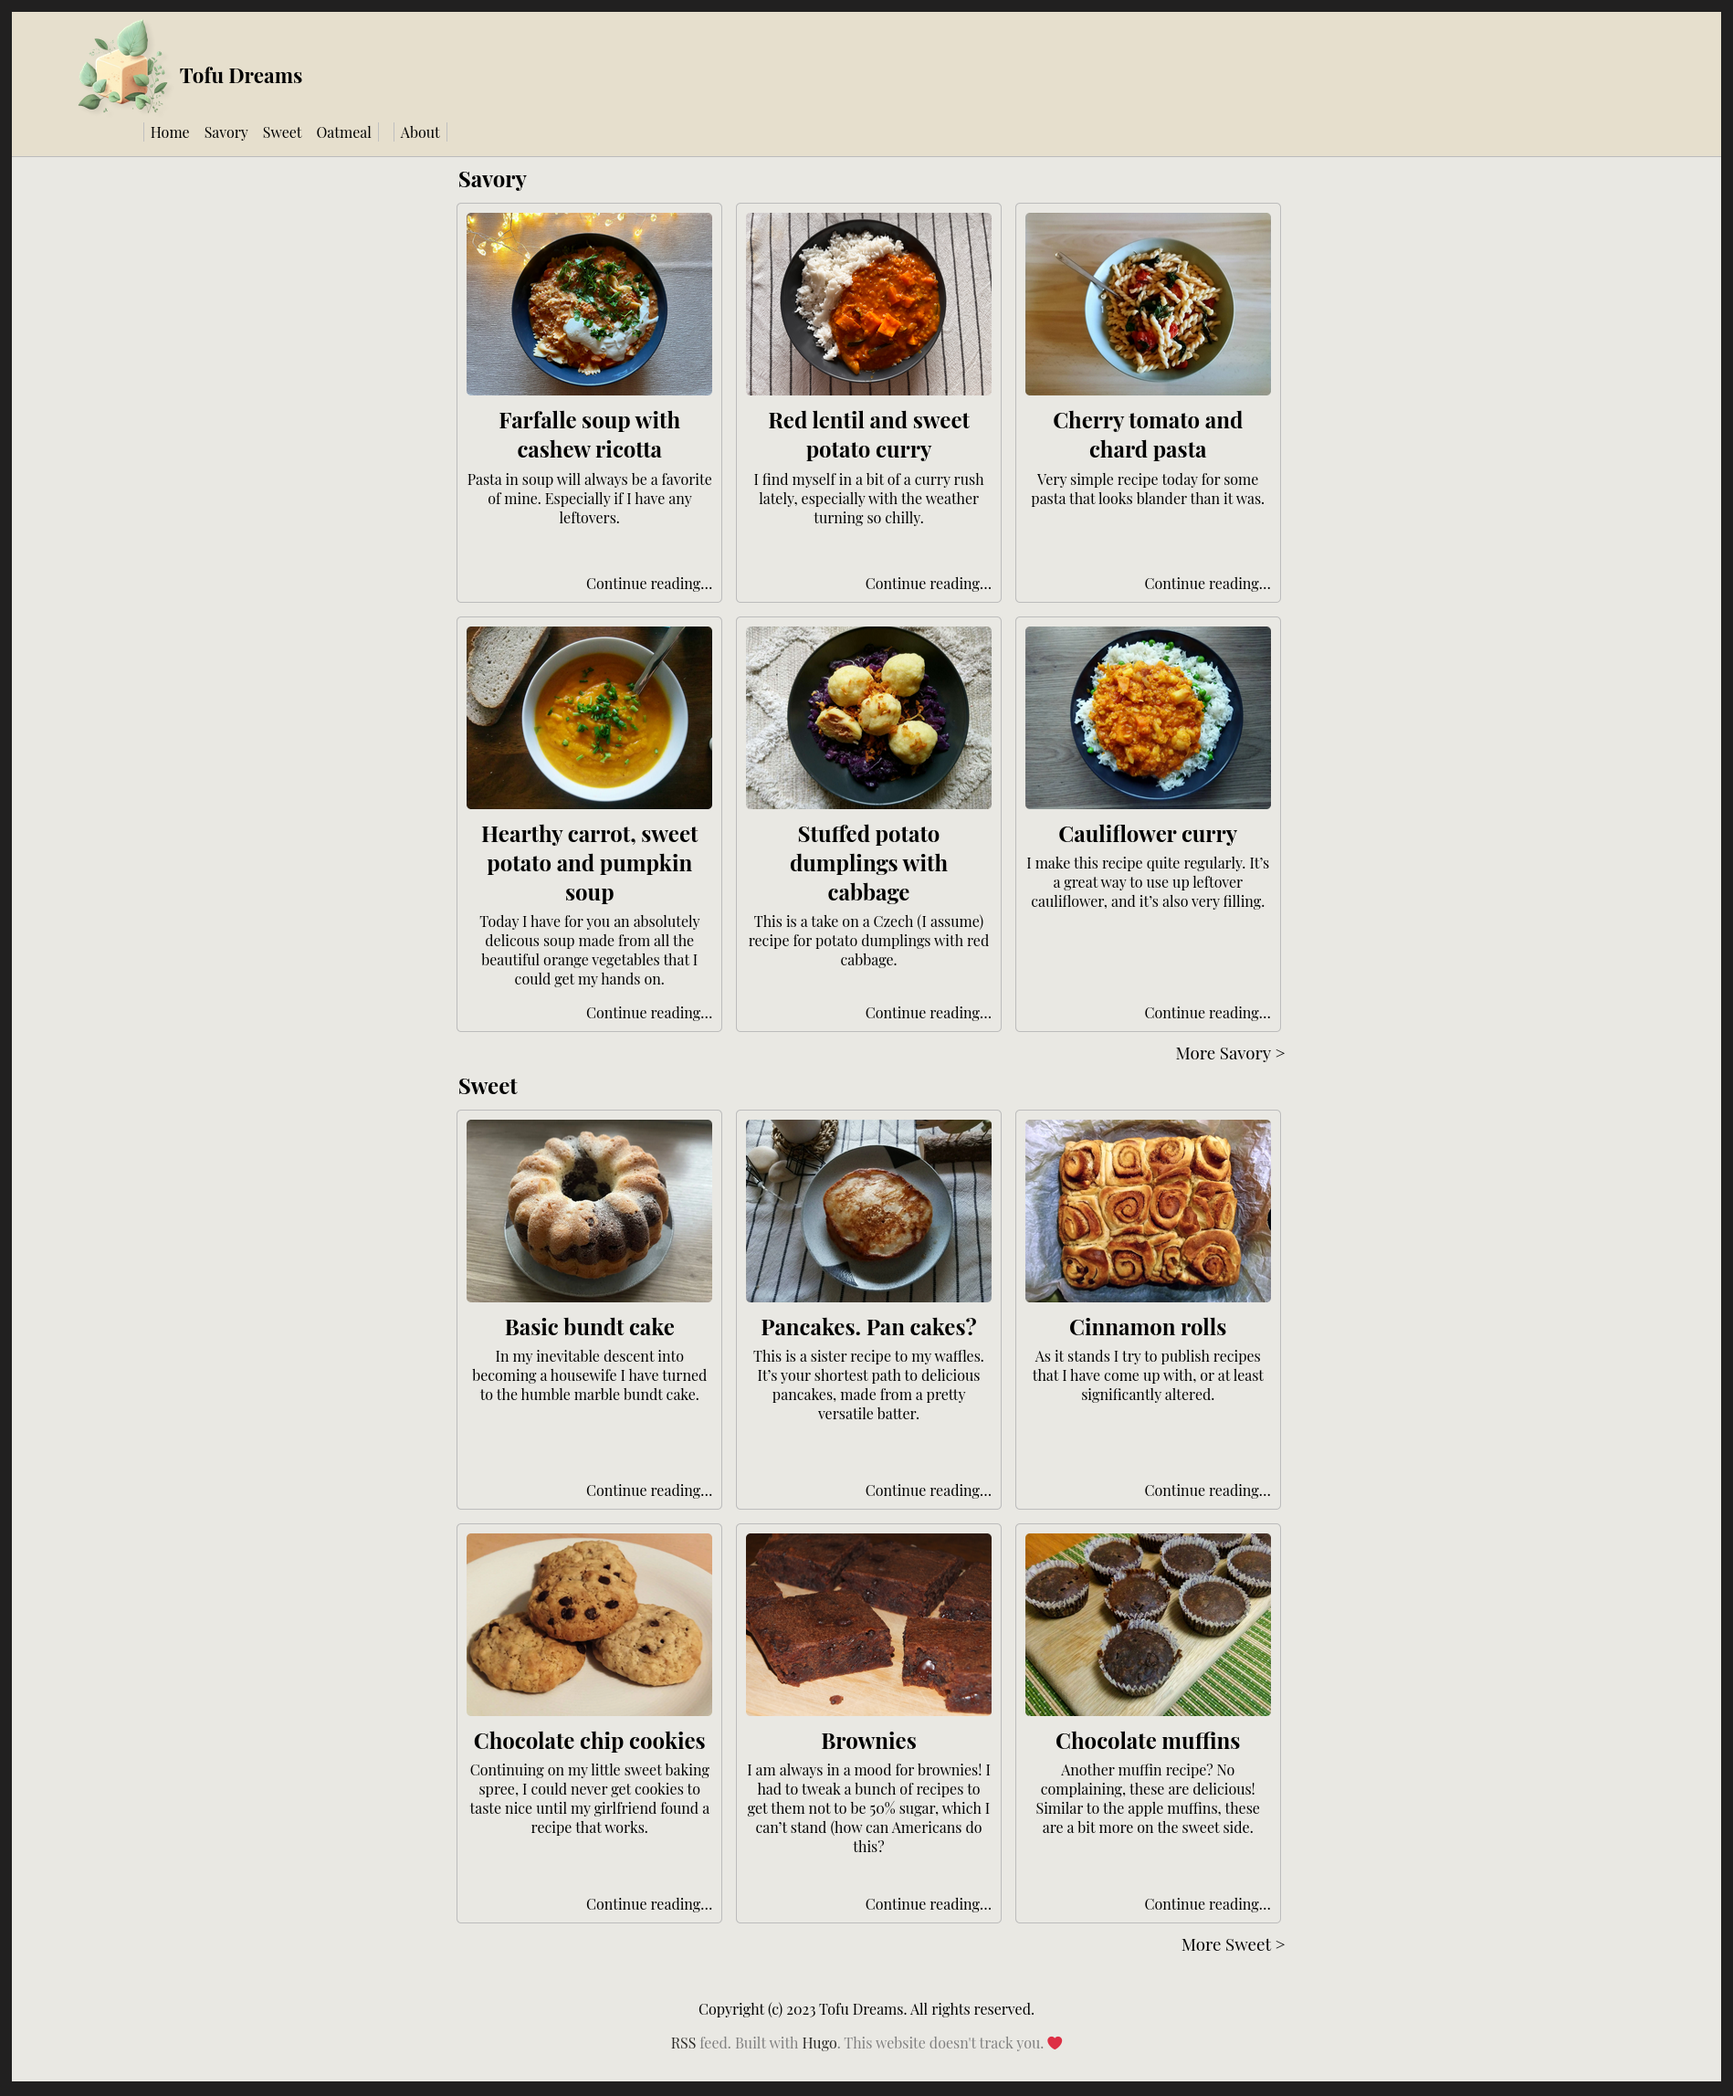
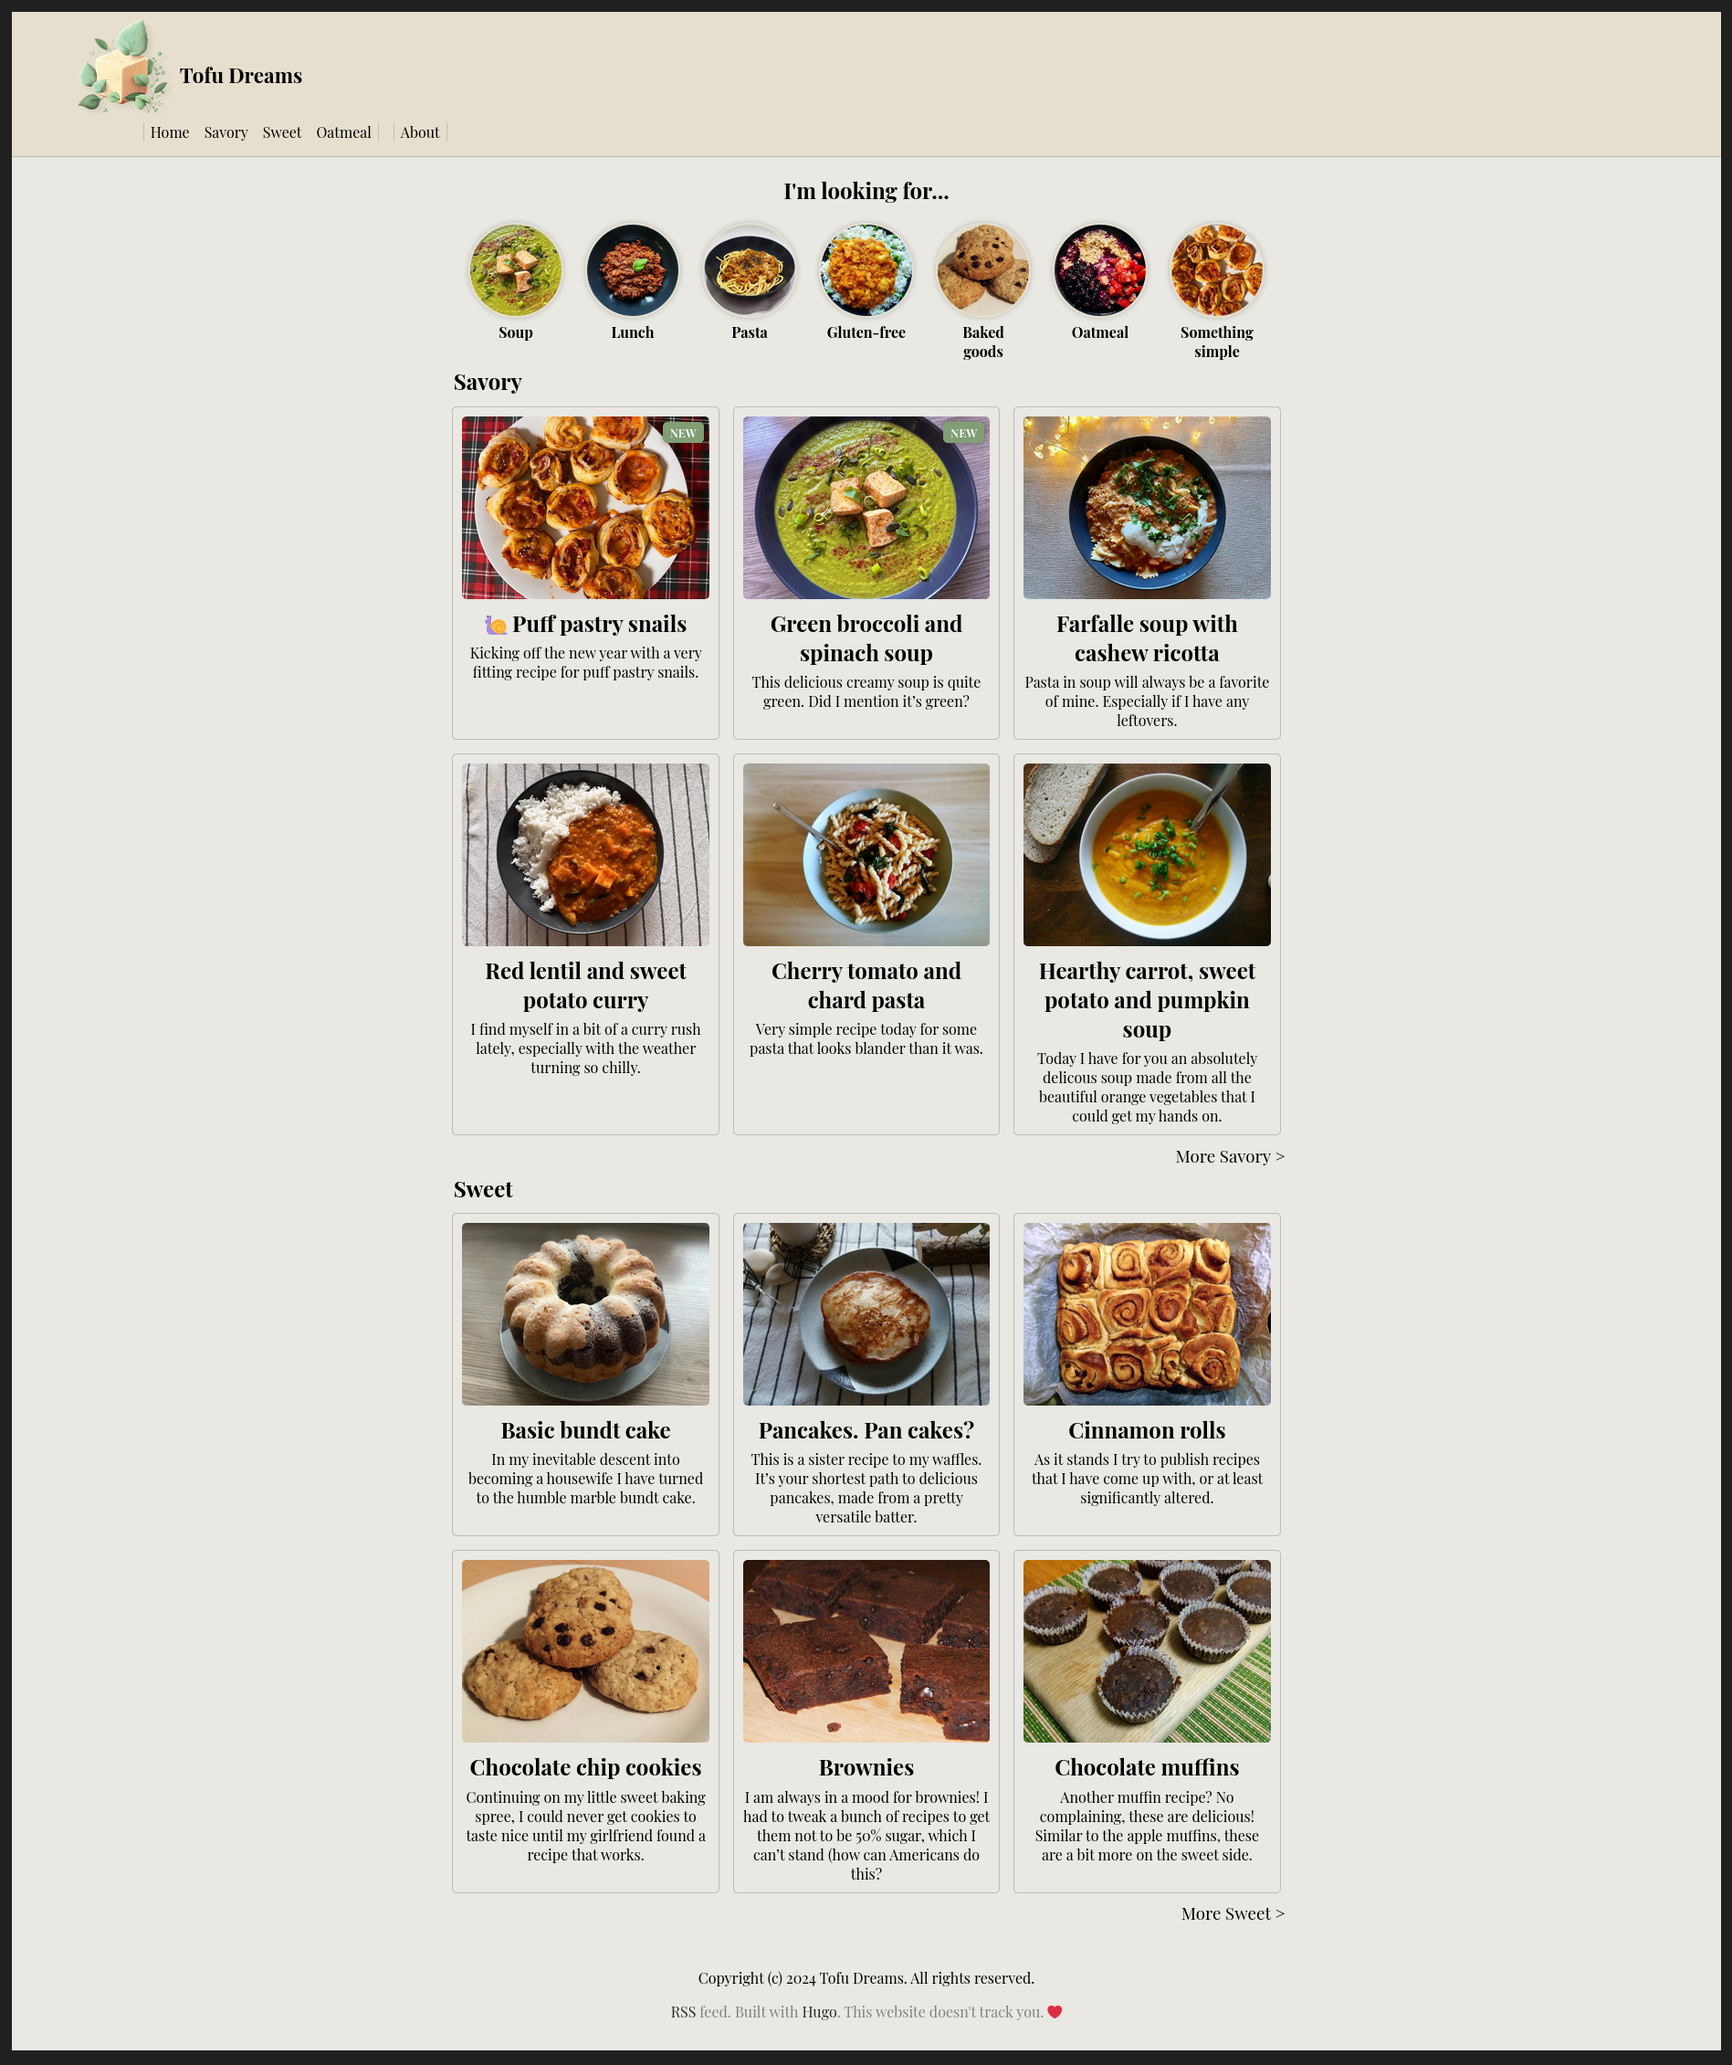
title changes

diff --git a/themes/bean/layouts/_default/single.html b/themes/bean/layouts/_default/single.html
@@ -53,7 +53,7 @@
         <img src="/me.jpg" alt="me">
         <p>
             Hi, I'm Daniel and this is my little vegan cooking blog.
-            I love comfort food and baking. I hope you find some of my recipes interesting and decide to make them yourself.
+            I love comfort food and baking. I hope you find some of my recipes interesting and decide to try them yourself.
         </p>
         <p>
             This site is intentionally minimal and doesn't need javascript to run. I don't want <i>your</i> <a href="/posts/sweet/cookies/">cookies</a>!
@@ -85,9 +85,9 @@
                         <span>
                         {{ if .Truncated }}
                             <!-- This <div> includes a read more link, but only if the summary is truncated... -->
-                        <div class="bottom-link">
+                        <!--<div class="bottom-link">
                             <a href="{{ .RelPermalink }}">Continue reading…</a>
-                        </div>
+                        </div>-->
                         {{ end }}
                         </span>
                 </div>

diff --git a/themes/bean/layouts/_default/taxonomy.html b/themes/bean/layouts/_default/taxonomy.html
@@ -34,7 +34,11 @@
 
     <div class="category_container">
         <div class="container">
-            <h1>{{ .Title }}</h1>
+            {{ $first := substr .Title 0 1 }}
+            {{ $rest := substr .Title 1 }}
+            {{ $first = upper $first }}
+            {{ $title := print $first $rest }}
+            <h1>{{ $title }}</h1>
             <div class="category">
                 {{ range .Paginator.Pages.ByDate.Reverse }}
                 <span class="article" onclick="location.href='{{ .RelPermalink }}';">
@@ -57,9 +61,9 @@
                         <span>
                         {{ if .Truncated }}
                             <!-- This <div> includes a read more link, but only if the summary is truncated... -->
-                        <div class="bottom-link">
+                        <!--<div class="bottom-link">
                             <a href="{{ .RelPermalink }}">Continue reading…</a>
-                        </div>
+                        </div>-->
                         {{ end }}
                         </span>
                     </span>

diff --git a/themes/bean/layouts/partials/header.html b/themes/bean/layouts/partials/header.html
@@ -7,7 +7,11 @@
                 {{ if eq .Title .Site.Title }}
                     <h3>{{.Title}}</h3></a>
                 {{ else }}
-                    <h3>{{.Title}} | {{ .Site.Title }}</h3></a>
+                    {{ $first := substr .Title 0 1 }}
+                    {{ $rest := substr .Title 1 }}
+                    {{ $first = upper $first }}
+                    {{ $title := print $first $rest }}
+                    <h3>{{ $title }} | {{ .Site.Title }}</h3></a>
                 {{ end }}
         </span>
         <span class="nav">

diff --git a/themes/bean/layouts/index.html b/themes/bean/layouts/index.html
@@ -32,9 +32,9 @@
                     <span>
                     {{ if .Truncated }}
                     <!-- This <div> includes a read more link, but only if the summary is truncated... -->
-                    <div class="bottom-link">
+                    <!--<div class="bottom-link">
                         <a href="{{ .RelPermalink }}">Continue reading…</a>
-                    </div>
+                    </div>-->
                     {{ end }}
                     </span>
                 </span>

diff --git a/themes/bean/layouts/partials/head.html b/themes/bean/layouts/partials/head.html
@@ -4,7 +4,10 @@
     {{ $title := print .Site.Title " | " .Title }}
     {{ if .IsHome }}{{ $title = .Site.Title }}
     {{ else }}
-    {{ $title = print .Title " | " .Site.Title }}
+        {{ $first := substr .Title 0 1 }}
+        {{ $rest := substr .Title 1 }}
+        {{ $first = upper $first }}
+        {{ $title = print $first $rest " | " .Site.Title }}
     {{ end }}
     <title>{{ $title }} – {{.Site.Params.description}}</title>
     <meta property="og:title" content="{{ $title }}" />

diff --git a/assets/style.sass b/assets/style.sass
@@ -117,7 +117,7 @@ nav.pagination
       display: flex
       flex-direction: column
       justify-content: space-between
-      min-height: 26rem
+      // min-height: 26rem
       &:hover
         a
           color: $link
